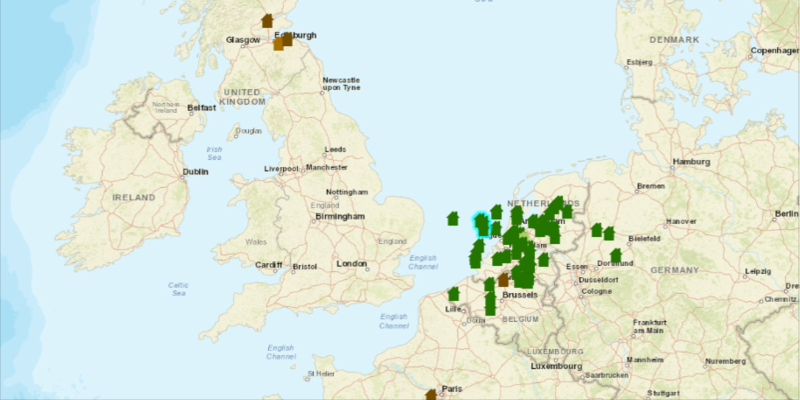
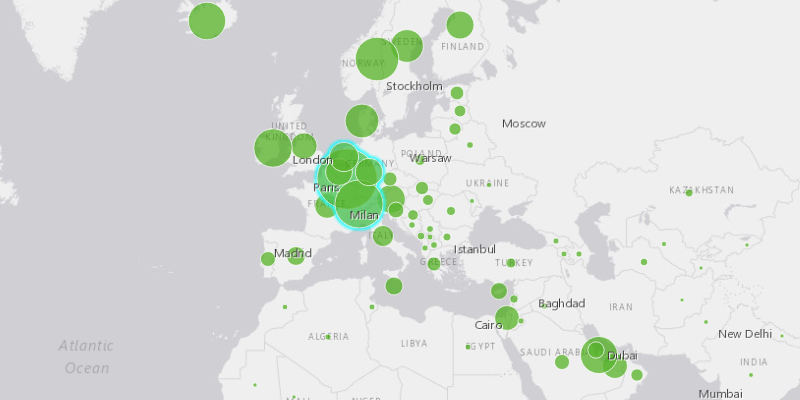
change feature service

diff --git a/src/main/java/com/esri/samples/featurelayers/feature_layer_selection/FeatureLayerSelectionSample.java b/src/main/java/com/esri/samples/featurelayers/feature_layer_selection/FeatureLayerSelectionSample.java
@@ -61,21 +61,20 @@ public class FeatureLayerSelectionSample extends Application {
       mapView = new MapView();
 
       // create a ArcGISMap with the streets basemap
-      ArcGISMap map = new ArcGISMap(Basemap.createStreets());
+      ArcGISMap map = new ArcGISMap(Basemap.createLightGrayCanvas());
 
       // set an initial viewpoint
-      map.setInitialViewpoint(new Viewpoint(new Envelope(-1131596.019761, 3893114.069099, 3926705.982140,
-          7977912.461790, 0, 0, SpatialReferences.getWebMercator())));
+      map.setInitialViewpoint(new Viewpoint(new Envelope(-6603299.491810, 1679677.742046, 9002253.947487,
+          8691318.054732, 0, 0, SpatialReferences.getWebMercator())));
 
-      // set the ArcGISMap to be displayed in the view
+      // set the map to the map view
       mapView.setMap(map);
 
-      // create feature layer with its service feature table
       // create the service feature table
-      String damageAssessmentFeatureService = "http://sampleserver6.arcgisonline.com/arcgis/rest/services/DamageAssessment/FeatureServer/0";
+      String damageAssessmentFeatureService = "https://services1.arcgis.com/4yjifSiIG17X0gW4/arcgis/rest/services/GDP_per_capita_1960_2016/FeatureServer/0";
       final ServiceFeatureTable serviceFeatureTable = new ServiceFeatureTable(damageAssessmentFeatureService);
 
-      // create the feature layer using the service feature table
+      // create the feature layer and set its selection color
       final FeatureLayer featureLayer = new FeatureLayer(serviceFeatureTable);
       featureLayer.setSelectionColor(0xFF00FFFF); // cyan color
       featureLayer.setSelectionWidth(3);
@@ -101,8 +100,10 @@ public class FeatureLayerSelectionSample extends Application {
               IdentifyLayerResult layer = results.get();
 
               // search the layers for identified features
-              List<Feature> features = layer.getElements().stream().filter(g -> g instanceof Feature).map(
-                  g -> (Feature) g).collect(Collectors.toList());
+              List<Feature> features = layer.getElements().stream()
+                  .filter(geoElement -> geoElement instanceof Feature)
+                  .map(g -> (Feature) g)
+                  .collect(Collectors.toList());
 
               // select features
               featureLayer.selectFeatures(features);
